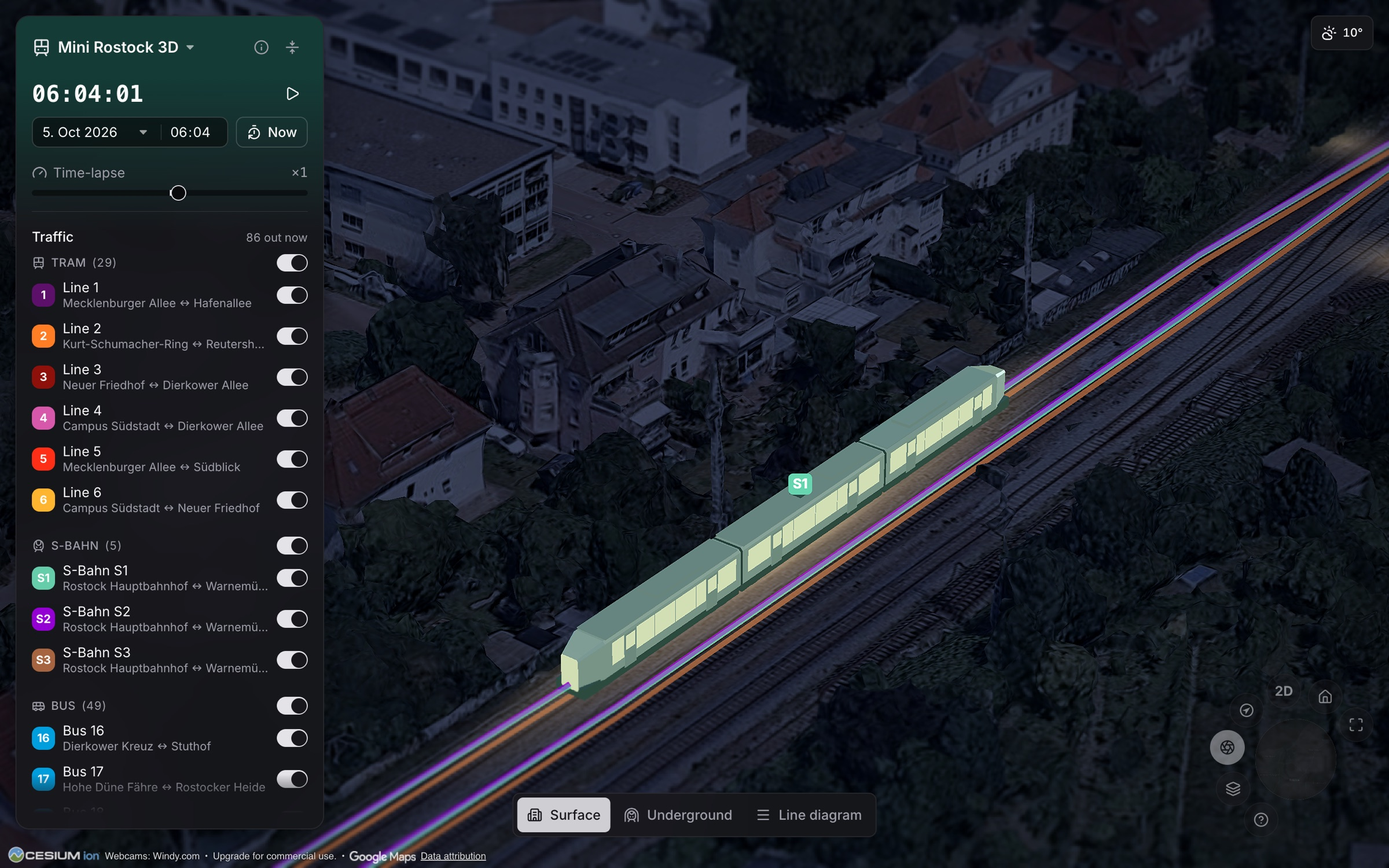
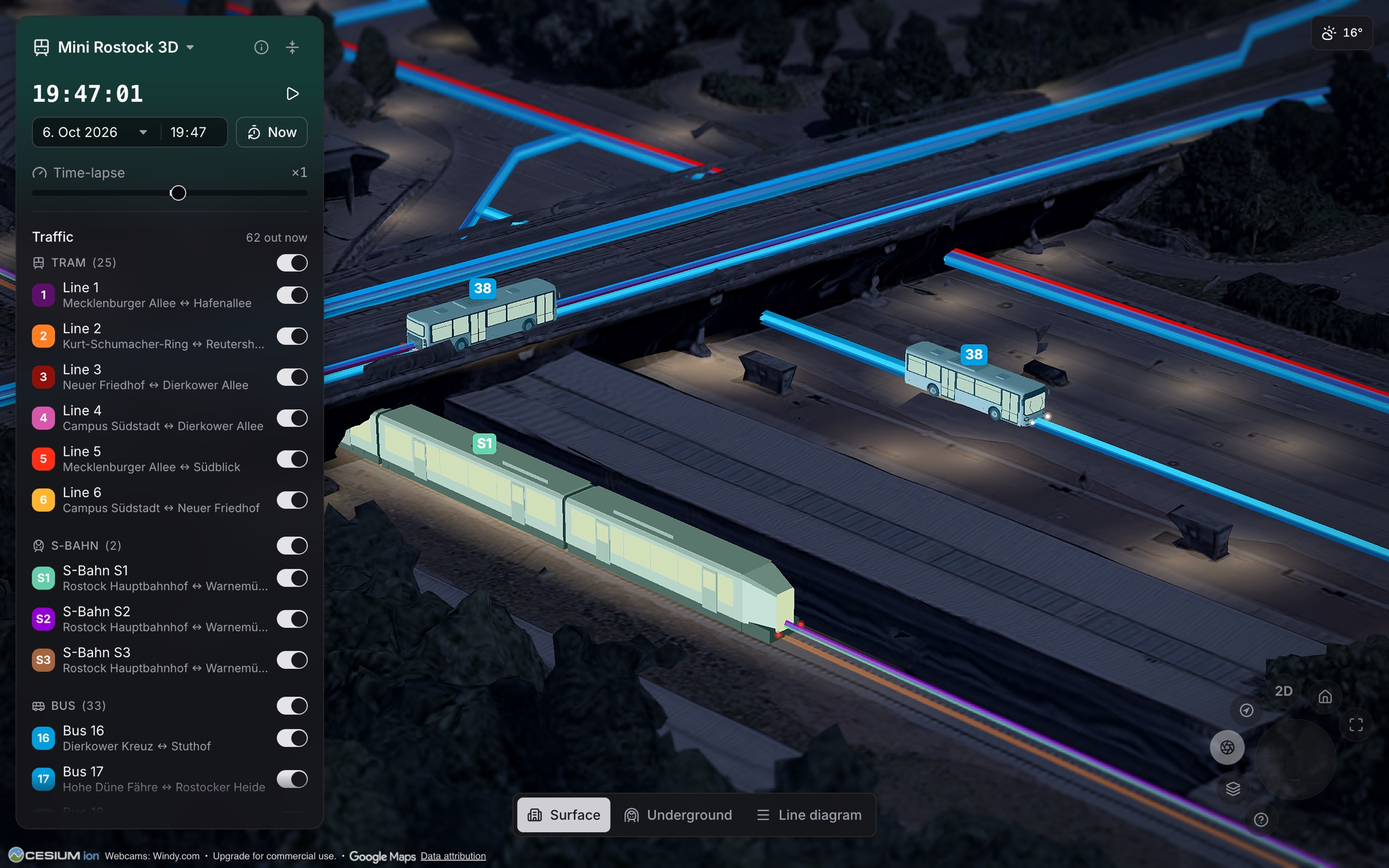
Retake four of the README's screenshots
Hamburg's overview is retaken on yesterday afternoon's recording, the
date in its link so that a rerun shows the same harbour while the
archive holds it. Three pictures make way for new views: Berlin's
trams M4, M6 and M8 at Mollstraße/Otto-Braun-Straße in the morning
rush hour, the S1 at Lütten Klein in the evening – where the remark on
the cabin glow and the street lamps now stands, the one lit picture of
the row – and the underground view of the U1 and U2 at
Wittenbergplatz. The captions say what each picture shows, the lines
and directions checked in the network and the simulation at the
picture's moment; the script carries the new links under the files'
old names.

diff --git a/README.md b/README.md
@@ -11,7 +11,7 @@ Live at **[minigermany3d.com](https://minigermany3d.com)**. Inspired by
 [CesiumJS](https://cesium.com/platform/cesiumjs/) and
 [Google Photorealistic 3D Tiles](https://cesium.com/learn/cesiumjs-learn/cesiumjs-photorealistic-3d-tiles/).
 
-[![Hamburg in the evening rush hour – the panel lists the lines, the map carries their vehicles, the harbour its ships](docs/screenshots/hamburg-harbour.jpg)](docs/screenshots/hamburg-harbour.jpg)
+[![Hamburg on a weekday afternoon – the panel lists the lines, the map carries their vehicles, the harbour its ships](docs/screenshots/hamburg-harbour.jpg)](docs/screenshots/hamburg-harbour.jpg)
 
 Nothing on the map is invented: what runs here runs in reality too, on the same
 route at the same time. A line that pauses for the weekend pauses here as well.
@@ -32,8 +32,8 @@ a chase camera; clicking a stop opens its departure board.
 
 | | |
 |---|---|
-| [![Two trams at Doberaner Platz before dawn](docs/screenshots/rostock-dawn-trams.jpg)](docs/screenshots/rostock-dawn-trams.jpg) | [![An S-Bahn train on the Warnemünde line](docs/screenshots/rostock-dawn-sbahn.jpg)](docs/screenshots/rostock-dawn-sbahn.jpg) |
-| *Rostock's trams 1 and 5 at Doberaner Platz – the cabin glow and the street lamps follow the simulated clock* | *A Talent 2 on the S1 to Warnemünde* |
+| [![Three trams and a bus at Mollstraße/Otto-Braun-Straße in Berlin](docs/screenshots/rostock-dawn-trams.jpg)](docs/screenshots/rostock-dawn-trams.jpg) | [![An S-Bahn train at Lütten Klein station in the evening, with two buses](docs/screenshots/rostock-dawn-sbahn.jpg)](docs/screenshots/rostock-dawn-sbahn.jpg) |
+| *Berlin's trams M4, M6 and M8 and the bus 200 at Mollstraße/Otto-Braun-Straße in the morning rush hour* | *The S1 to Warnemünde at Lütten Klein in the evening, with two buses of line 38 – the cabin glow and the street lamps follow the simulated clock* |
 
 **The harbour and the sky, live.** AIS positions from aisstream.io put every
 ship in the city's box on the water, as one of sixteen procedural hulls
@@ -47,8 +47,8 @@ clock set back replays the last five days.
 |---|---|
 | [![Container ships at the Waltershof terminals in Hamburg](docs/screenshots/hamburg-ships.jpg)](docs/screenshots/hamburg-ships.jpg) | [![A Lufthansa 747-8 on final into Frankfurt, followed by the chase camera](docs/screenshots/frankfurt-aircraft.jpg)](docs/screenshots/frankfurt-aircraft.jpg) |
 | *Hamburg, Waltershof: the box ships at their berths, each the size AIS reports* | *Frankfurt: following a 747-8 on final, with its ADS-B card* |
-| [![Ships in the Kiel-Holtenau locks](docs/screenshots/kiel-ferry.jpg)](docs/screenshots/kiel-ferry.jpg) | [![Warnemünde at night, the lighthouse beam sweeping the sea](docs/screenshots/rostock-night.jpg)](docs/screenshots/rostock-night.jpg) |
-| *Kiel-Holtenau: three ships in the locks of the Kiel Canal, the pilot boat waiting outside* | *Warnemünde, replayed from the AIS archive: the ferry leaving, the mole lights, the buoys' lanterns and the lighthouse's turning beam* |
+| [![Ships in the Kiel-Holtenau locks](docs/screenshots/kiel-ferry.jpg)](docs/screenshots/kiel-ferry.jpg) | [![U-Bahn trains at Wittenbergplatz in Berlin, seen from beneath the city](docs/screenshots/rostock-night.jpg)](docs/screenshots/rostock-night.jpg) |
+| *Kiel-Holtenau: three ships in the locks of the Kiel Canal, the pilot boat waiting outside* | *The underground view: Berlin's U1 and U2 at Wittenbergplatz, the city dimmed above them* |
 
 **A clock, not a feed.** The time field and the calendar set the simulated
 moment, the time-lapse runs it at up to ×120 forward or backward, and
